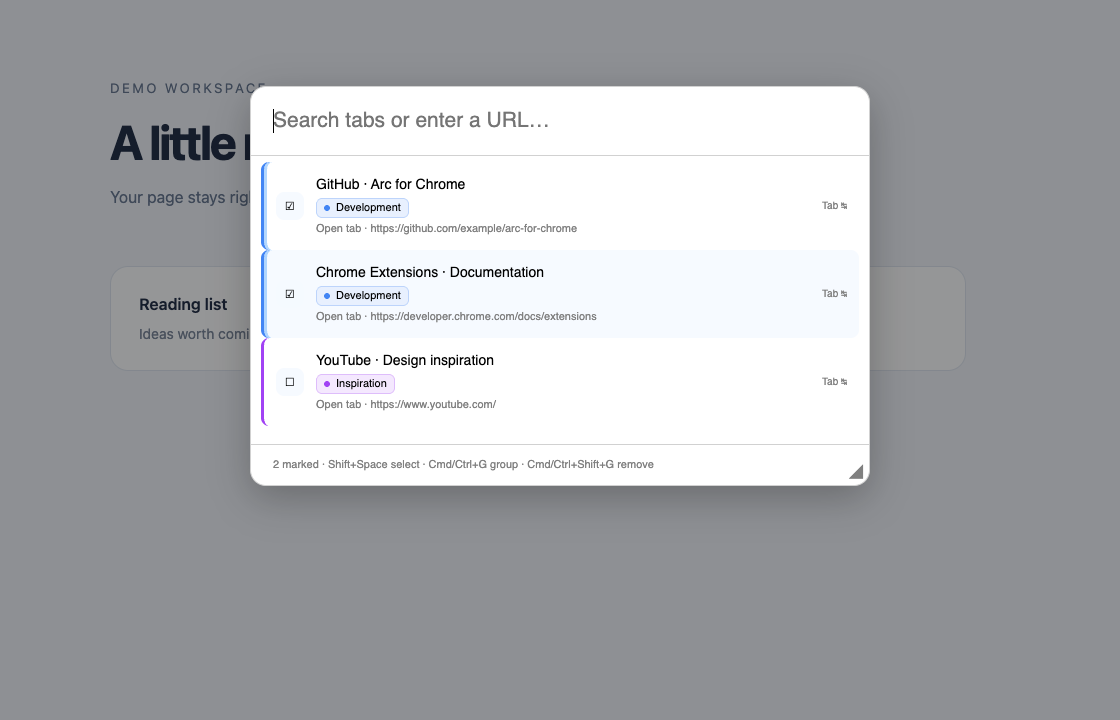
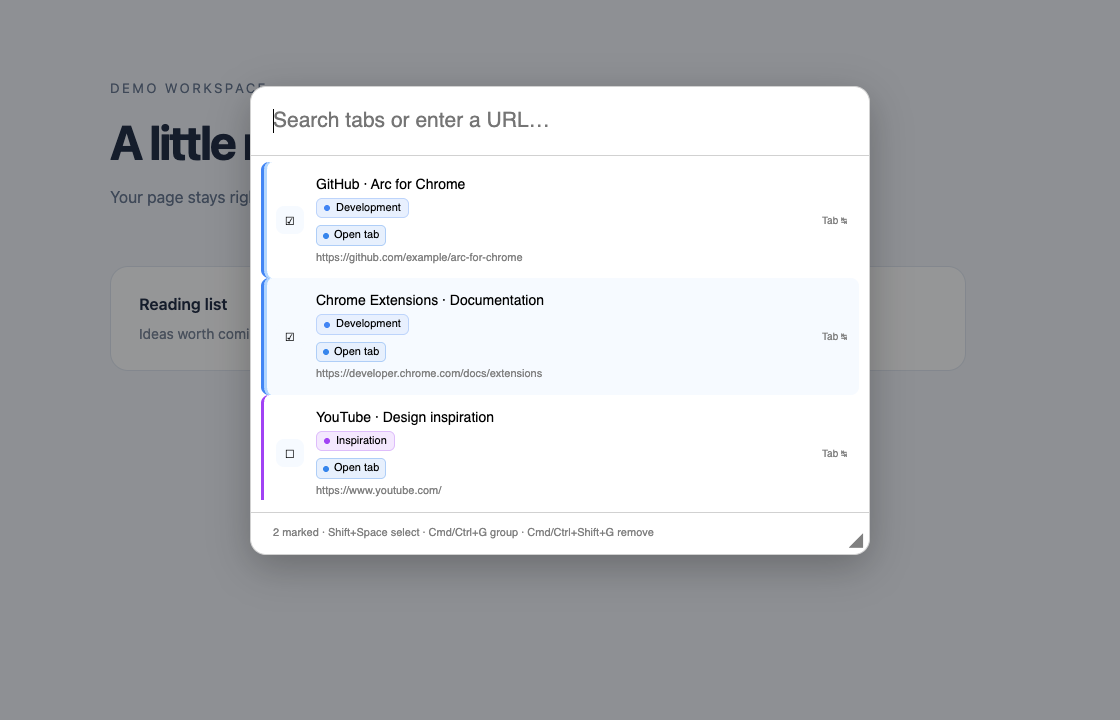
feat: distinguish Spotlight sources with colored labels
Cover merged browser sources and every action-result category with readable badges independent of native group colors. Verified 101 tests, disposable Chrome regression, merged-source labels and updated bilingual README captures.

diff --git a/extension/palette.js b/extension/palette.js
@@ -61,6 +61,17 @@ export function mountPalette(tabs, floating = false, context = {}) {
       [data-group-color=orange]{--group-color:#fa903e}
       .group-badge{display:inline-block;max-width:100%;overflow:hidden;text-overflow:ellipsis;white-space:nowrap;vertical-align:middle;padding:1px 7px;margin:3px 0;border-radius:6px;font-size:.6875rem;color:CanvasText;background:color-mix(in srgb,var(--group-color) 12%,Canvas);border:1px solid color-mix(in srgb,var(--group-color) 35%,Canvas)}
       .group-badge::before{content:'';display:inline-block;width:6px;height:6px;border-radius:50%;background:var(--group-color);margin-right:6px;vertical-align:middle}
+      .source-badges{display:flex;flex-wrap:wrap;gap:4px;margin:4px 0}
+      .source-badge{--source-color:#526174;display:inline-flex;align-items:center;gap:5px;padding:1px 6px;border-radius:5px;font-size:.6875rem;color:CanvasText;background:color-mix(in srgb,var(--source-color) 12%,Canvas);border:1px solid color-mix(in srgb,var(--source-color) 40%,Canvas)}
+      .source-badge::before{content:'';width:6px;height:6px;border-radius:50%;background:var(--source-color)}
+      [data-source=tab]{--source-color:#3685ec}[data-source=bookmark]{--source-color:#be8500}
+      [data-source=history]{--source-color:#a16be0}[data-source=domain]{--source-color:#168e70}
+      [data-source=site]{--source-color:#1495a8}[data-source=command],[data-source=browser-page]{--source-color:#7b8795}
+      [data-source=closed]{--source-color:#d77940}
+      [data-source=navigate]{--source-color:#6373dc}[data-source=move]{--source-color:#657d98}
+      [data-source=ai-draft]{--source-color:#d46676}[data-source=bookmark-folder]{--source-color:#be8500}
+      [data-source=group]{--source-color:#b75cb0}
+      @media (forced-colors:active){.source-badge{border-color:CanvasText}.source-badge::before{background:CanvasText}}
       .icon{width:28px;height:28px;border-radius:8px;background:var(--hover);display:grid;place-items:center;flex-shrink:0}
       .text{min-width:0;flex:1}.title,.url{display:block;white-space:nowrap;overflow:hidden;text-overflow:ellipsis}
       .url{font-size:.6875rem;color:var(--muted)}.hint{font-size:.625rem;color:var(--muted);flex-shrink:0}
@@ -188,7 +199,7 @@ export function mountPalette(tabs, floating = false, context = {}) {
     let timer;
     let suggestions = [];
     let domains = [];
-    const labels = {tab:'Open tab',bookmark:'Bookmark',history:'History',domain:'Homepage · New tab',command:'Command',closed:'Restore session',site:'Site search','browser-page':'Chrome page'};
+    const labels = {tab:'Open tab',bookmark:'Bookmark',history:'History',domain:'Homepage · New tab',command:'Command',closed:'Restore session',site:'Site search','browser-page':'Chrome page',navigate:'Open / Search',move:'Tab placement','ai-draft':'Saved AI prompt','bookmark-folder':'Bookmark folder',group:'Tab group'};
     const heldKeys = new Set();
     let closing = false;
     function close() {
@@ -397,8 +408,7 @@ export function mountPalette(tabs, floating = false, context = {}) {
         else if(choice.kind==='bookmark-folder'){icon.textContent=bookmarkOperation==='add'?'☆':'−';row.title=choice.title;}
         const text = document.createElement('span');text.className = 'text';
         const title = document.createElement('span');title.className = 'title';title.textContent = choice.title || 'Untitled tab';
-        const url = document.createElement('span');url.className = 'url';url.textContent = (['navigate','order-tab','move','ai-draft','bookmark-folder'].includes(choice.kind) || choice.kind.startsWith('group-')) ? choice.url
-          : `${(choice.sources || [choice.kind]).map(source => labels[source]).join(' · ')} · ${choice.url || ''}`;
+        const url = document.createElement('span');url.className = 'url';url.textContent = choice.url || '';
         if(choice.groupColor || choice.groupTitle)row.dataset.groupColor=choice.groupColor || 'grey';
         if (choice.match) url.textContent += choice.match === 'layout' ? ' · Keyboard layout match' : ' · Similar spelling';
         text.append(title);
@@ -406,6 +416,15 @@ export function mountPalette(tabs, floating = false, context = {}) {
           const badge=document.createElement('span');badge.className='group-badge';
           badge.textContent=choice.groupTitle+(choice.groupCollapsed?' · Collapsed':'');
           badge.title=`Tab group: ${choice.groupTitle}`;text.append(badge);
+        }
+        const sources=Array.from(new Set(choice.sources || [choice.kind==='order-tab'?'tab':choice.kind==='site-query'?'site':choice.kind.startsWith('group-')?'group':choice.kind])).filter(source=>labels[source]);
+        if(sources.length) {
+          const badges=document.createElement('span');badges.className='source-badges';
+          for(const source of sources) {
+            const badge=document.createElement('span');badge.className='source-badge';badge.dataset.source=source;
+            badge.textContent=labels[source];badges.append(badge);
+          }
+          text.append(badges);
         }
         text.append(url);row.append(icon,text);
         if (choice.kind !== 'navigate' && !choice.kind.startsWith('group-') && !['command','closed','order-tab','move','ai-draft','bookmark-folder'].includes(choice.kind)) {

diff --git a/scripts/check-palette-keyboard.js b/scripts/check-palette-keyboard.js
@@ -61,8 +61,8 @@ try {
   await evaluate(`document.body.innerHTML='<input id="page-input"><video></video>';document.querySelector('input').focus();
     globalThis.pageKeys=[];globalThis.messages=[];
     for(const type of ['keydown','keypress','keyup']) window.addEventListener(type,event=>pageKeys.push(type+':'+event.key),true);
-    globalThis.chrome={runtime:{sendMessage:async message=>{if(message.type==='palette:suggest')return {ok:true,suggestions:(mockTabs||[]).filter(tab=>(tab.title+' '+tab.url).toLowerCase().includes(message.query.toLowerCase())).map(tab=>({...tab,kind:'tab',sources:['tab']})),warnings:[]};messages.push(message);return {ok:true};}}};`);
-  await mount([{id:1,title:'Video',url:'https://video.example'}]);
+    globalThis.chrome={runtime:{sendMessage:async message=>{if(message.type==='palette:suggest')return {ok:true,suggestions:(mockTabs||[]).filter(tab=>(tab.title+' '+tab.url).toLowerCase().includes(message.query.toLowerCase())).map(tab=>({...tab,kind:'tab',sources:tab.sources || ['tab']})),warnings:[]};messages.push(message);return {ok:true};}}};`);
+  await mount([{id:1,title:'Video',url:'https://video.example',sources:['tab','bookmark','history','bookmark']}]);
   assert.equal(await paletteCall(`function(){return this.querySelectorAll('header,nav,select,#close').length;}`),0,'palette must open directly on the query without a toolbar');
   async function paletteCall(functionDeclaration,args=[]) {
     const tree = await send('DOM.getDocument',{depth:-1,pierce:true});
@@ -97,6 +97,10 @@ try {
     await writeFile(join(process.env.PALETTE_SCREENSHOT_DIR,`arc-spotlight-${name}.png`),Buffer.from(data,'base64'));
   }
   await send('Emulation.setEmulatedMedia',{features:[{name:'prefers-color-scheme',value:'light'}]});
+  await evaluate('new Promise(resolve=>setTimeout(resolve,220))');
+  assert.equal(await paletteCall(`function(){return this.querySelector('[data-source=tab]').textContent;}`),'Open tab','open tabs need a named source badge');
+  assert.deepEqual(await paletteCall(`function(){return [...this.querySelectorAll('.source-badge')].map(node=>node.textContent);}`),['Open tab','Bookmark','History'],'merged results retain every distinct source');
+  assert.equal(await paletteCall(`function(){return new Set([...this.querySelectorAll('.source-badge')].map(node=>this.ownerDocument.defaultView.getComputedStyle(node).getPropertyValue('--source-color').trim())).size;}`),3,'source categories use distinct colors');
   const light=await paletteStyles();
   assert.equal(light.background,light.canvas,'palette should use native browser Canvas color');
   assert.equal(light.color,light.canvasText);
@@ -378,6 +382,8 @@ try {
   await evaluate('new Promise(resolve=>setTimeout(resolve,220))');
   await key(' ','Space',' ',8);await key('ArrowDown','ArrowDown');await key(' ','Space',' ',8);
   await key('d','KeyD','',4);
+  await evaluate('new Promise(resolve=>setTimeout(resolve,220))');
+  assert.equal(await paletteCall(`function(){return this.querySelector('[data-source=bookmark-folder]').textContent;}`),'Bookmark folder');
   assert.equal(await paletteCall(`function(){return this.querySelector('input').placeholder;}`),'Choose a folder to save bookmarks…');
   await send('Input.insertText',{text:'Work'});await key('Enter','Enter');
   assert.deepEqual((await evaluate('messages')).at(-1),{type:'palette:bookmark',operation:'add',tabIds:[81,82],folderId:'work'});

diff --git a/docs/WORK_LOG.md b/docs/WORK_LOG.md
@@ -220,3 +220,5 @@ Each commit body should state its rationale and the checks actually run. Publish
 116. At the user's request, reviewed the 33-commit current branch including 11 unpublished feature commits, and all local refs/reflogs (65 commits, 418 historical blobs, 68 tracked files). Checked provider-token/private-key/JWT signatures, credential assignments/URLs, personal paths/emails, suspicious secret/profile/archive names, high-entropy strings, commit messages, historical image EXIF/text metadata, local Git config keys and remote credential presence. Reviewed matches: example.com credential-rejection fixtures and the screenshot environment-variable command; no actual secret or browser export was found. Author metadata uses a GitHub noreply email; the public author name remains visible. Remote has no embedded credentials; no untracked/ignored files were present. Specialized gitleaks/trufflehog tools are not installed: this was a local pattern/entropy/manual review, not a guarantee for all secret formats. No runtime changes/tests needed; no push performed.
 
 117. Updated both English/Russian README shortcut tables and added a select → group/bookmark walkthrough with three current UI screenshots. Extended reproducible disposable-profile captures for marked tabs, group selection and full-path bookmark folders; refreshed existing demo media. All browsing fixtures are fictional and browser API replies stubbed. Browser regression/capture check passed; manually inspected selection/group/folder PNGs, checked README local links and git diff whitespace. Fixed a capture-only Escape transition that initially hid the folder picker. No extension runtime changes or push.
+
+118. Added text-and-dot source badges to Spotlight results: tab, bookmark, history, homepage, site search, Chrome page, command and restored session. Merged results retain distinct source labels; URLs no longer repeat the same source text. Audited every produced result kind and covered navigation, AI drafts, bookmark folders, tab placement, order tabs and all group actions. Kept native group colors independent; labels use Canvas colors, tinted backgrounds and forced-colors borders/dots. Added browser checks for merged/deduplicated sources with distinct colors and folder labels. The initial missing-badge regression failed before implementation; corrected the merged-source test fixture to return merged sources rather than overwrite them as tab-only. Updated bilingual README legends and reproducible UI media. Validation: 101 unit tests and syntax checks passed; full disposable Chrome regression passed, regenerated README media and visually inspected light selection, dark selection and bookmark-folder captures. No push.

diff --git a/README.md b/README.md
@@ -147,6 +147,10 @@ The catalogue includes extensions and their shortcuts, browser settings, history
 
 Known catalogue addresses such as `chrome://extensions` also open directly. Only listed internal routes are recognized; this is navigation to browser pages, not a search inside their private contents or automatic modification of settings. No new permissions are required.
 
+Results carry colored text labels: **blue — Open tab**, **amber — Bookmark**, **purple — History**, **green — Homepage**, **teal — Site search**, **orange — Restore session**, and **grey — browser pages/commands**. A merged result shows each source; native tab-group badges keep their own colors. Labels remain readable in light/dark themes and without color perception.
+
+Additional modes label **Saved AI prompt**, **Bookmark folder**, **Tab group**, **Tab placement** and **Open / Search** too; folders share the bookmark color and tab-group actions use a separate mauve label.
+
 ### Select once, then act
 
 1. Find tabs in Search or `@`; mark each with **Shift+Space**. Marks stay when you change the query.
